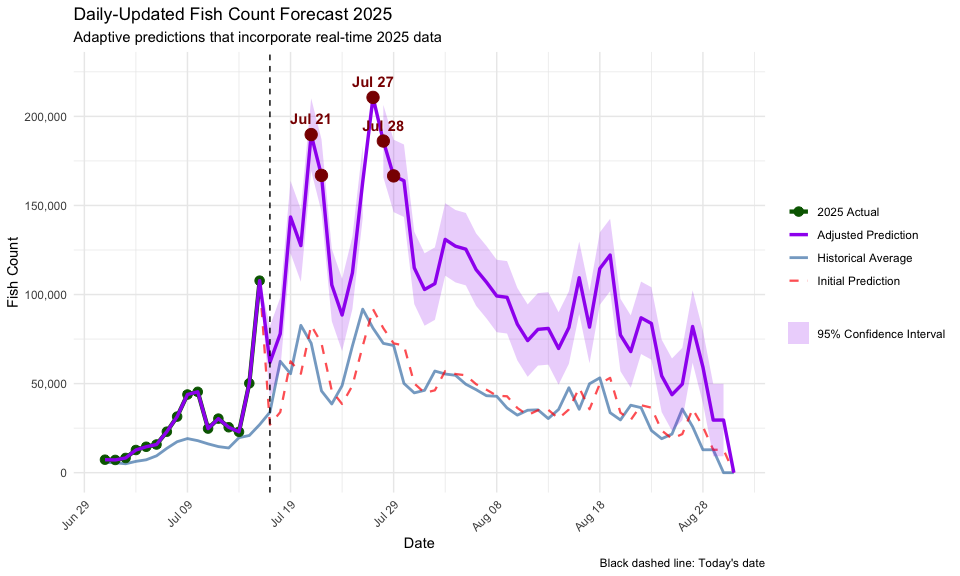
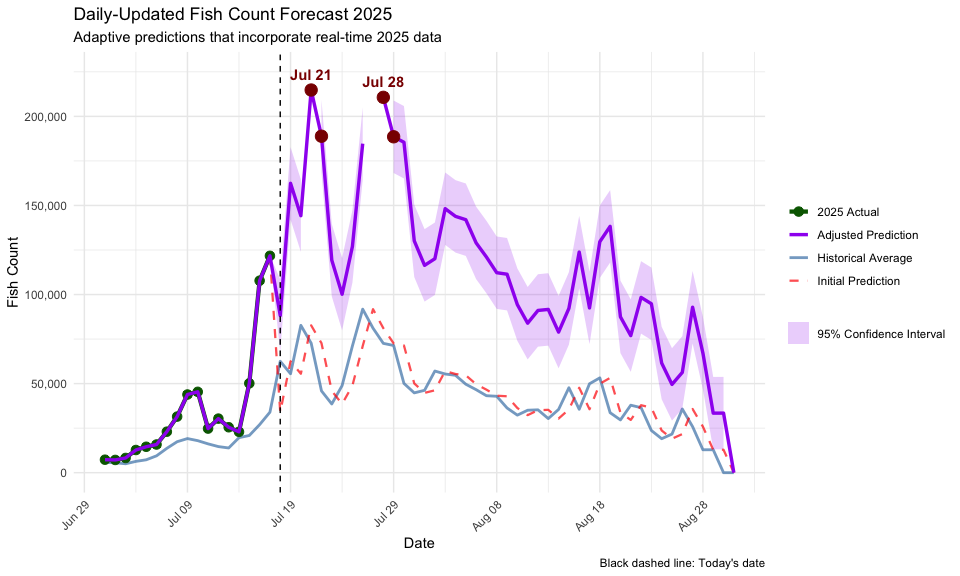
daily update

Changed region(s): [[0.25, 0.125, 0.7812, 0.8125], [0.5312, 0.6875, 0.5625, 0.7188], [0.3438, 0.6562, 0.375, 0.6875]]

diff --git a/kenai_sockeye_counts.md b/kenai_sockeye_counts.md
@@ -2,7 +2,7 @@ Kenai River Sockeye Salmon Count Forecasting: Daily Fish Count
 Predictions
 ================
 Joe Hicks
-updated: 2025-07-17
+updated: 2025-07-18
 
 - [Summary](#summary)
 - [Data Loading & Preparation](#data-loading--preparation)
@@ -195,7 +195,7 @@ tidy(ets_model) |>
 
 | method     |     aic | sigma2 |  loglik |
 |:-----------|--------:|-------:|--------:|
-| ETS(M,N,N) | 1337.85 |   0.08 | -665.92 |
+| ETS(M,N,N) | 1330.62 |   0.07 | -662.31 |
 
 ETS Model Summary
 
@@ -210,7 +210,7 @@ checkresiduals(ets_model)
     ##  Ljung-Box test
     ## 
     ## data:  Residuals from ETS(M,N,N)
-    ## Q* = 8.2899, df = 10, p-value = 0.6005
+    ## Q* = 15.856, df = 10, p-value = 0.1038
     ## 
     ## Model df: 0.   Total lags used: 10
 
@@ -405,11 +405,11 @@ predicted_peaks_updated |>
 
 | peak_rank | date_2025 | month_day | predicted_count | adjusted_prediction | data_status |
 |---:|:---|:---|---:|---:|:---|
-| 1 | 2025-07-27 | 07-27 | 91783 | 210659 | Future prediction |
-| 2 | 2025-07-21 | 07-21 | 82692 | 189793 | Future prediction |
-| 3 | 2025-07-28 | 07-28 | 81110 | 186163 | Future prediction |
-| 4 | 2025-07-22 | 07-22 | 72706 | 166873 | Future prediction |
-| 5 | 2025-07-29 | 07-29 | 72585 | 166596 | Future prediction |
+| 1 | 2025-07-27 | 07-27 | 91783 | 238418 | Future prediction |
+| 2 | 2025-07-21 | 07-21 | 82692 | 214803 | Future prediction |
+| 3 | 2025-07-28 | 07-28 | 81110 | 210694 | Future prediction |
+| 4 | 2025-07-22 | 07-22 | 72706 | 188862 | Future prediction |
+| 5 | 2025-07-29 | 07-29 | 72585 | 188549 | Future prediction |
 
 Top 5 Predicted Peak Days for 2025
 
@@ -617,6 +617,6 @@ kable(true_accuracy_metrics)
 
 | n_observations | mean_abs_error | median_abs_error | mean_pct_error |  rmse |
 |---------------:|---------------:|-----------------:|---------------:|------:|
-|             16 |          17152 |             9958 |           50.1 | 26271 |
+|             17 |          21718 |            10856 |           51.7 | 34322 |
 
 ------------------------------------------------------------------------
